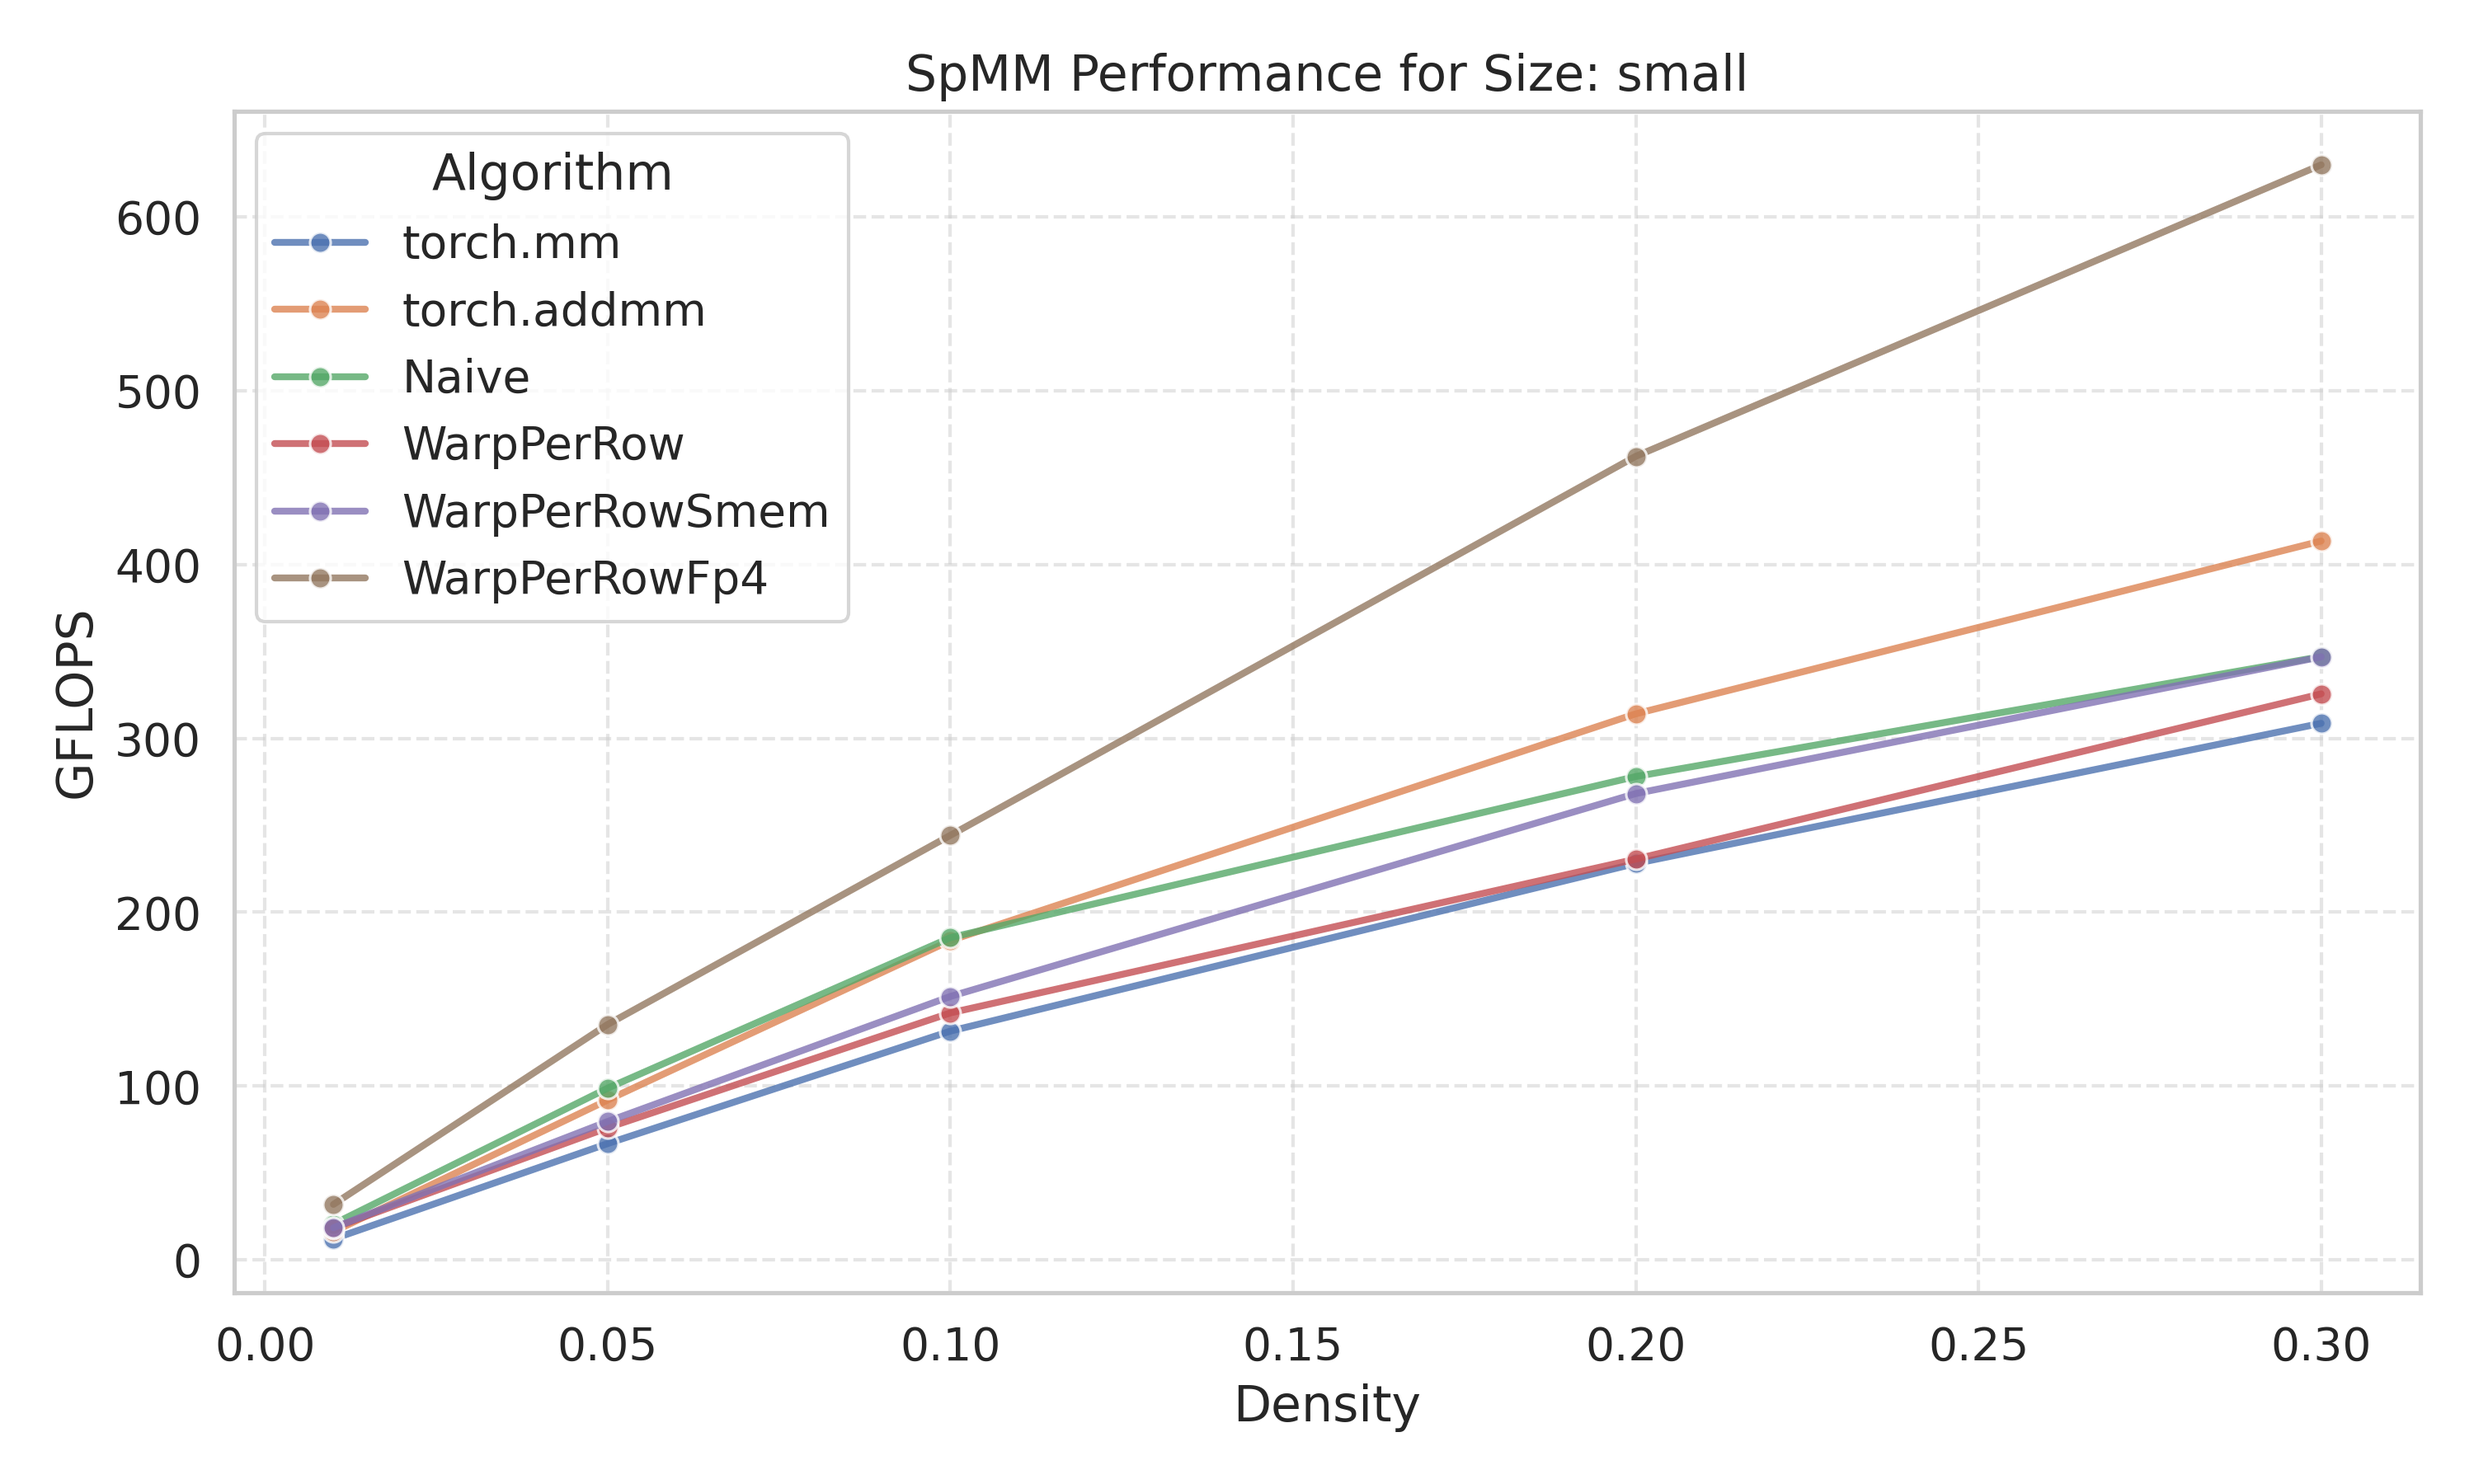
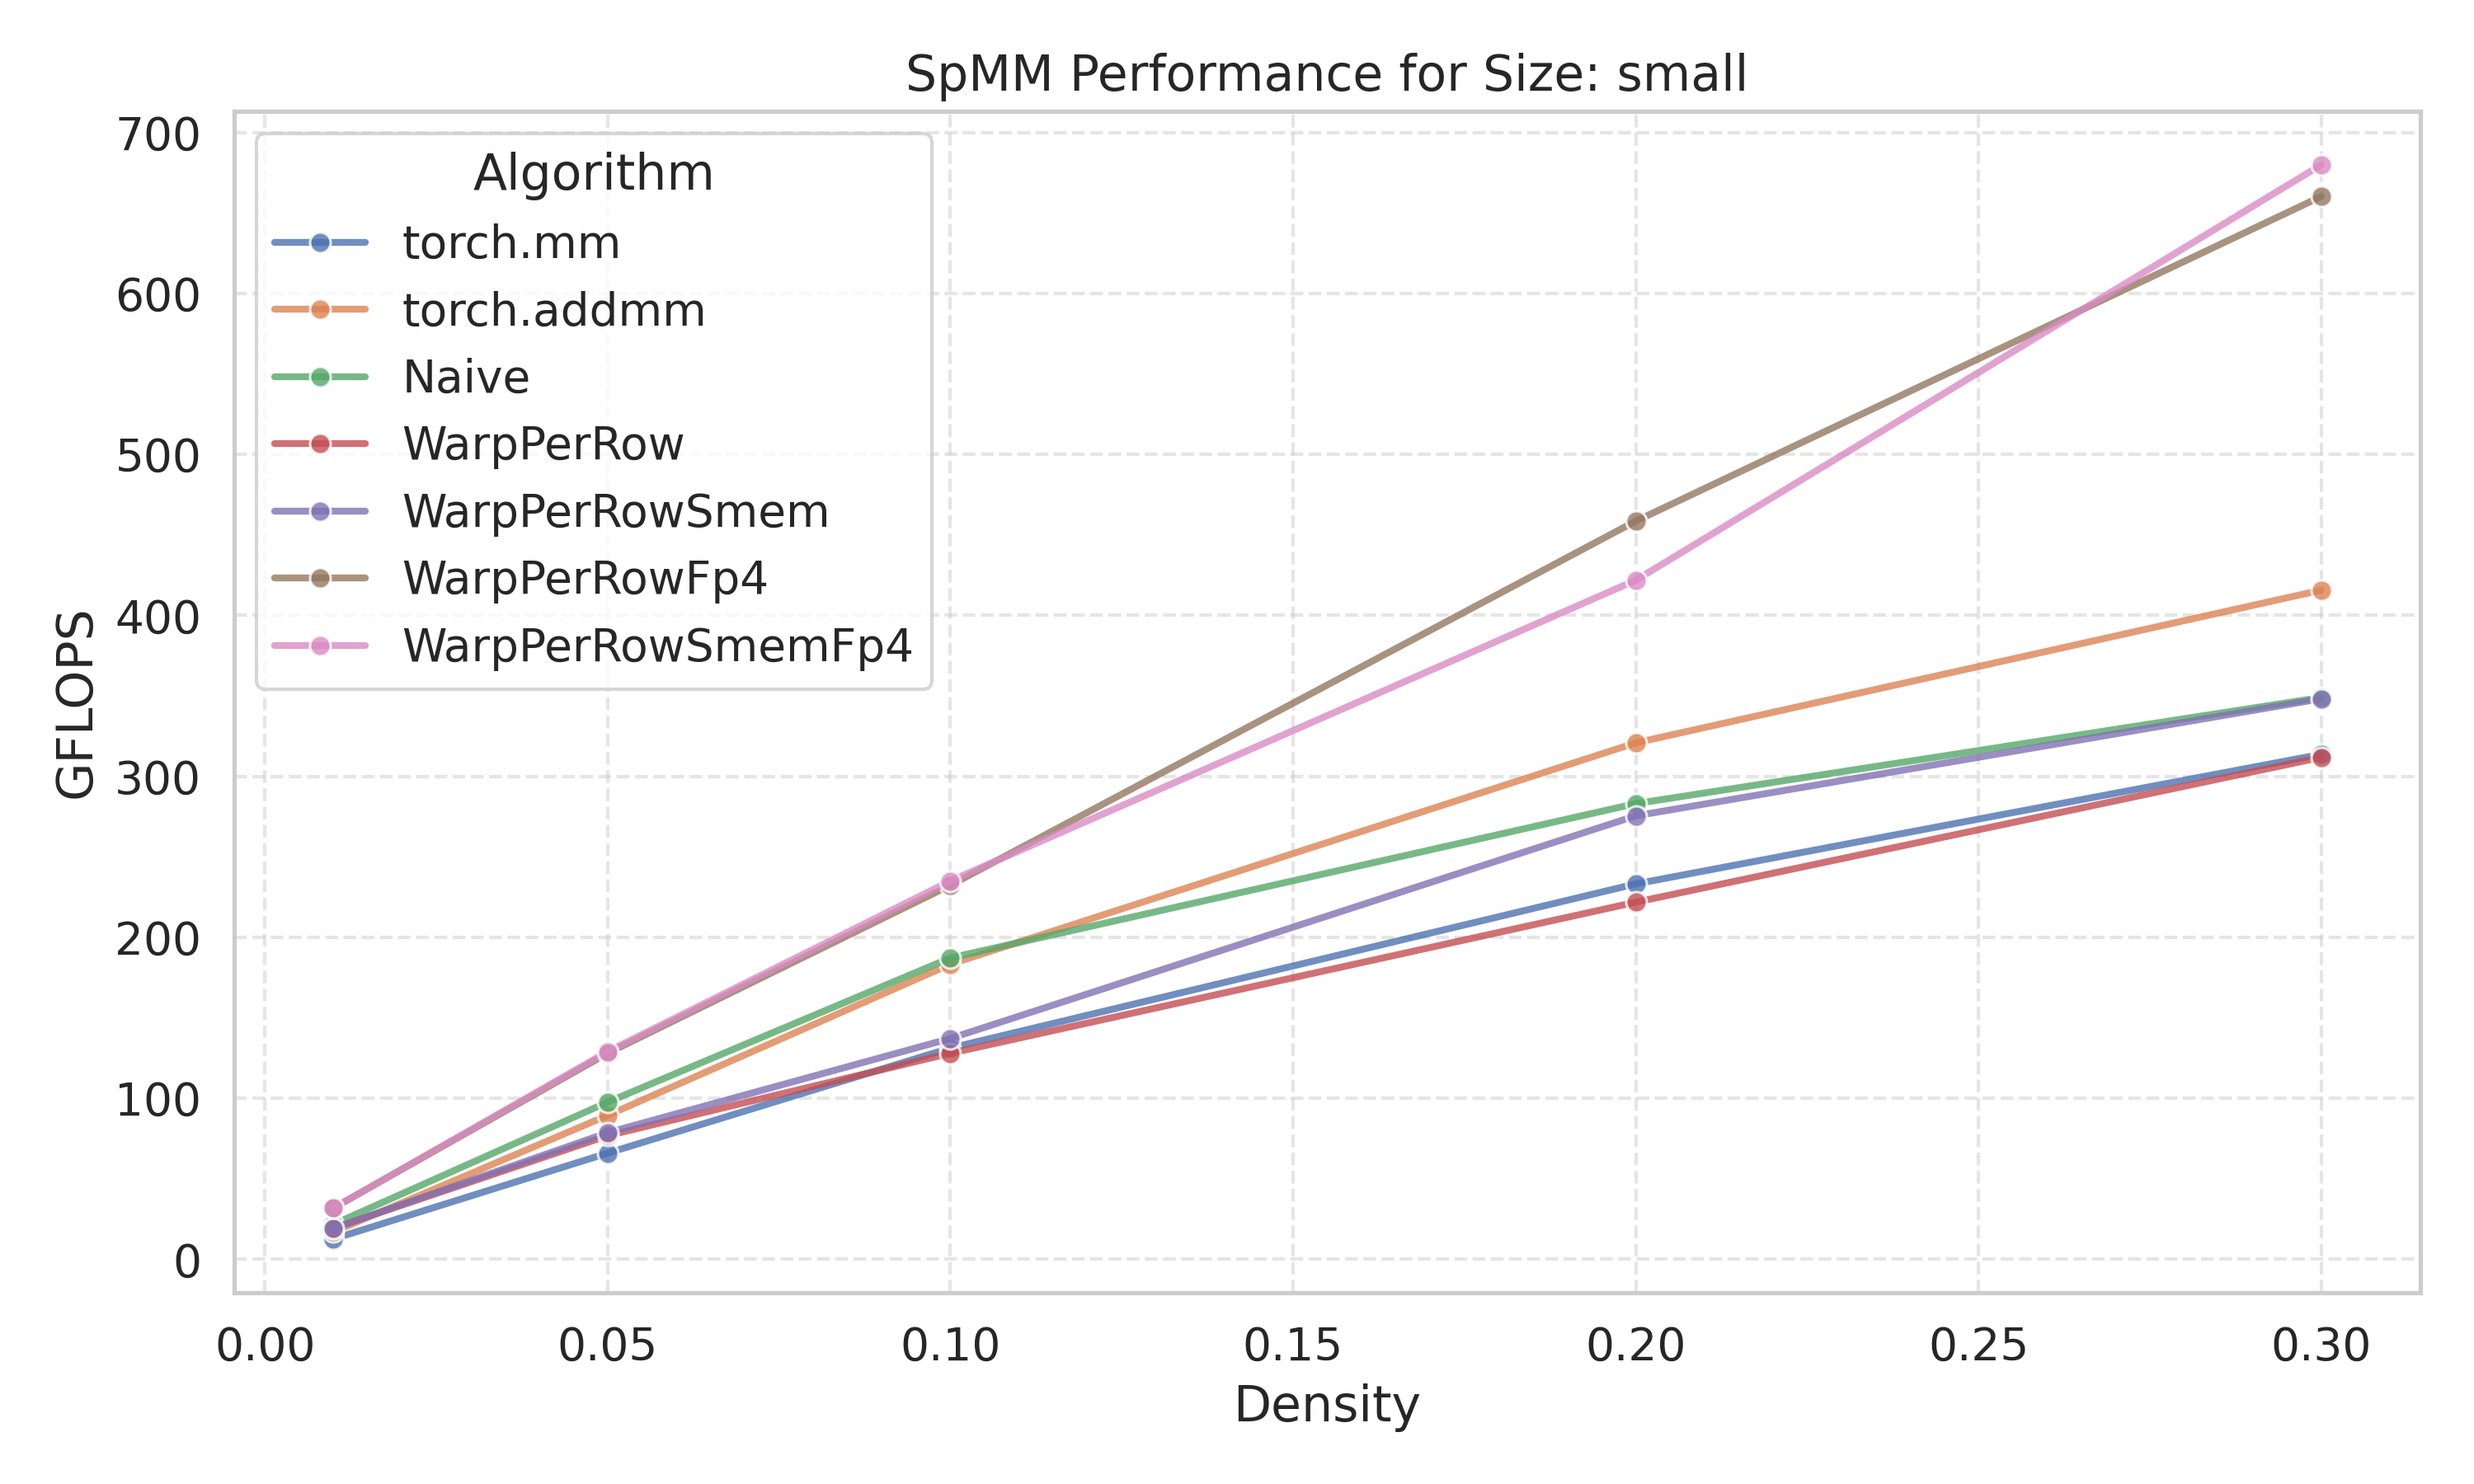
benchmarks all the interfaces

diff --git a/torch_csrspmm/torch_csrspmm_warp_per_row_smem_fp4.cpp b/torch_csrspmm/torch_csrspmm_warp_per_row_smem_fp4.cpp
@@ -1,0 +1,61 @@
+#include <torch/extension.h>
+#include <iostream>
+
+#include "csrspmm/matrix.h"
+#include "csrspmm/csr_utils.h"
+#include "csrspmm/dense_utils.h"
+#include "csrspmm/spmm_launcher.cuh"
+
+using torch::Tensor;
+
+Tensor csrspmm_warp_per_row_smem_fp4_forward(
+    Tensor A_row_ptr,
+    Tensor A_col_idx,
+    Tensor A_values,
+    int A_max_row_nnz,
+    Tensor B,
+    float alpha,
+    float beta
+) {
+    TORCH_CHECK(A_row_ptr.is_cuda(), "A_row_ptr must be a CUDA tensor");
+    TORCH_CHECK(A_col_idx.is_cuda(), "A_col_idx must be a CUDA tensor");
+    TORCH_CHECK(A_values.is_cuda(), "A_values must be a CUDA tensor");
+    TORCH_CHECK(B.is_cuda(), "B must be a CUDA tensor");
+
+    TORCH_CHECK(A_row_ptr.dtype() == torch::kInt32,  "A_row_ptr must be int32");
+    TORCH_CHECK(A_col_idx.dtype() == torch::kInt32,  "A_col_idx must be int32");
+    TORCH_CHECK(A_values.dtype()  == torch::kFloat32, "A_values must be float32");
+    TORCH_CHECK(B.dtype() == torch::kFloat32, "B must be float32");
+
+    int M = A_row_ptr.size(0) - 1;
+    int K = B.size(0);
+    int N = B.size(1);
+
+    Tensor C = (beta == 0.f)
+        ? torch::empty({M, N}, B.options())
+        : torch::zeros({M, N}, B.options());
+
+    csrspmm::CSRMatrix dA;
+    dA.height = M;
+    dA.width  = K;
+    dA.nnz    = A_values.size(0);
+    dA.row_ptr = A_row_ptr.data_ptr<int>();
+    dA.col_idx = A_col_idx.data_ptr<int>();
+    dA.values  = A_values.data_ptr<float>();
+
+    dA.max_row_nnz = A_max_row_nnz;
+
+    csrspmm::DenseMatrix dB;
+    dB.height = K;
+    dB.width  = N;
+    dB.data   = B.data_ptr<float>();
+
+    csrspmm::DenseMatrix dC;
+    dC.height = M;
+    dC.width  = N;
+    dC.data   = C.data_ptr<float>();
+
+    csrspmm::launch_warp_per_row_smem_fp4(dA, dB, dC, alpha, beta);
+
+    return C;
+}

diff --git a/torch_csrspmm/binding.cpp b/torch_csrspmm/binding.cpp
@@ -8,7 +8,6 @@ torch::Tensor csrspmm_naive_forward(
 torch::Tensor csrspmm_warp_per_row_forward(
     torch::Tensor, torch::Tensor, torch::Tensor, torch::Tensor, float, float
 );
-// torch::Tensor csrspmm_warp_per_row_forward(torch::Tensor, torch::Tensor, torch::Tensor, torch::Tensor);
 
 torch::Tensor csrspmm_warp_per_row_fp4_forward(
     torch::Tensor, torch::Tensor, torch::Tensor, torch::Tensor, float, float
@@ -18,6 +17,9 @@ torch::Tensor csrspmm_warp_per_row_smem_forward(
     torch::Tensor, torch::Tensor, torch::Tensor, int, torch::Tensor, float, float
 );
 
+torch::Tensor csrspmm_warp_per_row_smem_fp4_forward(
+    torch::Tensor, torch::Tensor, torch::Tensor, int, torch::Tensor, float, float
+);
 
 
 // Expose to Python via PyBind11
@@ -26,4 +28,5 @@ PYBIND11_MODULE(TORCH_EXTENSION_NAME, m) {
     m.def("csrspmm_warp_per_row", &csrspmm_warp_per_row_forward, "CSR SpMM (warp_per_row)");
     m.def("csrspmm_warp_per_row_smem", &csrspmm_warp_per_row_smem_forward, "CSR SpMM (warp_per_row_smem)");
     m.def("csrspmm_warp_per_row_fp4", &csrspmm_warp_per_row_fp4_forward, "CSR SpMM (warp_per_row_fp4)");
+    m.def("csrspmm_warp_per_row_smem_fp4", &csrspmm_warp_per_row_smem_fp4_forward, "CSR SpMM (warp_per_row_smem_fp4)");
 }

diff --git a/torch_csrspmm/torch_benchmarks.py b/torch_csrspmm/torch_benchmarks.py
@@ -85,6 +85,8 @@ def fn_warp_per_row_smem(alpha, row, col, val, max_row_nnz, B, beta, C):
 def fn_warp_per_row_fp4(alpha, row, col, val, B, beta, C):
     return torch_csrspmm.csrspmm_warp_per_row_fp4(row, col, val, B, alpha, beta)
 
+def fn_warp_per_row_smem_fp4(alpha, row, col, val, max_row_nnz, B, beta, C):
+    return torch_csrspmm.csrspmm_warp_per_row_smem_fp4(row, col, val, max_row_nnz, B, alpha, beta)
 
 def main():
     alpha = 1.1
@@ -109,6 +111,7 @@ def main():
                 "WarpPerRow": time_fn(fn_warp_per_row, alpha, row, col, val, B, beta, C),
                 "WarpPerRowSmem": time_fn(fn_warp_per_row_smem, alpha, row, col, val, max_row_nnz, B, beta, C),
                 "WarpPerRowFp4": time_fn(fn_warp_per_row_fp4, alpha, row, col, val, B, beta, C),
+                "WarpPerRowSmemFp4": time_fn(fn_warp_per_row_smem_fp4, alpha, row, col, val, max_row_nnz, B, beta, C),
             }
 
             for algo, t in timings.items():

diff --git a/tests/test_pytorch.py b/tests/test_pytorch.py
@@ -66,6 +66,8 @@ def run_single_test(M, N, K, device, algo="naive"):
         C1 = torch_csrspmm.csrspmm_warp_per_row_smem(crow, col, val, max_row_nnz, B, alpha, beta)
     elif algo == "WarpPerRowFp4": 
         C1 = torch_csrspmm.csrspmm_warp_per_row_fp4(crow, col, val, B, alpha, beta)
+    elif algo == "WarpPerRowSmemFp4": 
+        C1 = torch_csrspmm.csrspmm_warp_per_row_smem_fp4(crow, col, val, max_row_nnz, B, alpha, beta)
     else: 
         raise NotImplementedError("Algorithm currently not supported")
 
@@ -89,7 +91,7 @@ def main():
     device = "cuda" if torch.cuda.is_available() else "cpu"
     print("Using device:", device)
     
-    algos = ["naive", "WarpPerRow", "WarpPerRowSmem", "WarpPerRowFp4"]
+    algos = ["naive", "WarpPerRow", "WarpPerRowSmem", "WarpPerRowFp4", "WarpPerRowSmemFp4"]
     for algo in algos:
         # ---- Small tests ----
         run_single_test(4, 4, 8, device, algo)

diff --git a/torch_csrspmm/__init__.py b/torch_csrspmm/__init__.py
@@ -4,6 +4,7 @@ from ._C import csrspmm_naive as _csrspmm_naive
 from ._C import csrspmm_warp_per_row as _csrspmm_warp_per_row
 from ._C import csrspmm_warp_per_row_smem as _csrspmm_warp_per_row_smem
 from ._C import csrspmm_warp_per_row_fp4 as _csrspmm_warp_per_row_fp4
+from ._C import csrspmm_warp_per_row_smem_fp4 as _csrspmm_warp_per_row_smem_fp4
 
 
 def csrspmm_naive(A_rowptr, A_colidx, A_values, B, alpha, beta):
@@ -17,3 +18,6 @@ def csrspmm_warp_per_row_smem(A_rowptr, A_colidx, A_values, A_max_row_nnz, B, al
 
 def csrspmm_warp_per_row_fp4(A_rowptr, A_colidx, A_values, B, alpha, beta):
     return _csrspmm_warp_per_row_fp4(A_rowptr, A_colidx, A_values, B, alpha, beta)
+
+def csrspmm_warp_per_row_smem_fp4(A_rowptr, A_colidx, A_values, A_max_row_nnz, B, alpha, beta):
+    return _csrspmm_warp_per_row_smem_fp4(A_rowptr, A_colidx, A_values, A_max_row_nnz, B, alpha, beta)

diff --git a/setup.py b/setup.py
@@ -18,6 +18,7 @@ sources = [
     str(PROJECT_ROOT / "torch_csrspmm" / "torch_csrspmm_warp_per_row.cpp"),
     str(PROJECT_ROOT / "torch_csrspmm" / "torch_csrspmm_warp_per_row_smem.cpp"),
     str(PROJECT_ROOT / "torch_csrspmm" / "torch_csrspmm_warp_per_row_fp4.cpp"),
+    str(PROJECT_ROOT / "torch_csrspmm" / "torch_csrspmm_warp_per_row_smem_fp4.cpp"),
 
     # Host utilities
     str(PROJECT_ROOT / "src" / "csrspmm.cpp"),
